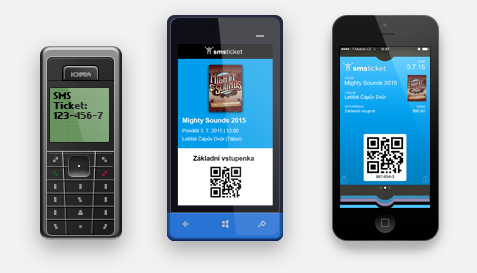
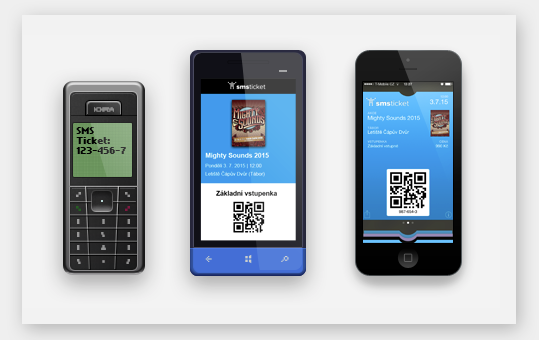
responsive container, hidden menu on resize, changed images

diff --git a/co-z-toho-mame.html b/co-z-toho-mame.html
@@ -100,12 +100,12 @@
             
                 <p class="para">Pro platby používáme moderní a spolehlivou platební bránu Pays.</p> 
                 <p class="para">Jako první ticketingovka v ČR nabízíme PayPal, který je v online platbách jednou z nejžádanějších forem převodu, tedy zase o trochu více pordaných vstupenek na Vaší akci!</p>
-                <img src="images/pays-paypal.png" alt="pays and paypall" class="img-responsive images-center">
+                <img src="images/pays-paypal2.png" alt="pays and paypall" class="img-responsive">
             </div>
             <div class="col-md-6 move">
-                <img src="images/plat-2.png" alt="platebni metody" class="img-responsive" width="330px">
+                <img src="images/plat-3.png" alt="platebni metody" class="img-responsive" width="330px">
             </div>
-            <div class="col-md-12 move">
+            <div class="col-md-12">
             <p class="para"><small>Unikátní je platba pomocí odeslání jediné SMS. V tomto případě uhradí návštěvník část vstupenky SMSkou (50,- nebo 99,-) a zbytek doplatí na místě akce. Obrovská výhoda této platební metody je jednoduchost a rychlost nákupu - nemusíte mít počítač, stačí napsat SMS dle návodu.</small></p>
             </div>
         </div>

diff --git a/jak-to-funguje.html b/jak-to-funguje.html
@@ -95,14 +95,14 @@
                 <p class="para">Návštěvníci jednoduše zaplatí on-line nebo SMSkou a obratem jim přijde vstupenka do mobilu i na email.</p>
                 <p class="para">Pohodlně nakoupí z počítače, tabletu i mobilu - design je tomu plně přizpůsoben</p><br>
             </div>
-            <div class="col-md-5">
+            <div class="col-md-5 move">
                 <h2>OBSLOUŽÍME ÚPLNĚ VŠECHNY!</h2>
                 <p class="para">Majitelé staré Nokie i nabušeného iPhone6. Vstupenky posílame formou SMS, emailem, PDF do tiskárny a Passbook pro iPhone</p>
             </div>   
             <div class="col-md-7">
                 <img src="images/mobiles.png" alt="mobile" class="img-responsive" width="380px">
             </div>
-            <div class="col-md-12">
+            <div class="col-md-12 move">
                 <h2>BEZPEČNÉ ODBAVENÍ VSTUPENEK</h2>
                 <p class="para">Vždy se jedná o unikátní číselný kód, který platí pro jednorázový vstup. Na vaší akci je pak snadno odbavíte pomocí mobilní aplikace nebo si vytisknete přehledný seznam prodaných vstupenek.</p><br>
             </div>

diff --git a/sledujte-prodej.html b/sledujte-prodej.html
@@ -94,7 +94,7 @@
             <p class="para">Mějte stále přehled o prodejích díky detailnímu vyúčtování. Sledujte podrobné vyúčtování z každé akce také měsíční reporty, vše v přehledných grafech a tabulkách.</p><br>
             </div>
             <div class="col-sm-6"> 
-                <img src="images/komp-2.png" alt="notebook" class="img-responsive" width="450px">
+                <img src="images/komp-3.png" alt="notebook" class="img-responsive" width="450px">
             </div>
             <div class="col-sm-6 move-padding-2">
                 <h2>ŠETŘÍME VÁŠ ČAS</h2>
@@ -106,7 +106,7 @@
                 <p class="para">Zažádejte si o peníze jediným kliknutím hned po skončení vaší akce. Peníze odesíláme obratem na váš účet.</p>
             </div>
             <div class="col-sm-6">
-                <img src="images/vyplata-prijem-2.png" alt="" class="img-responsive" width="400px">
+                <img src="images/vyplata-prijem-3.png" alt="" class="img-responsive" width="400px">
             </div>
             </div>
         </div>

diff --git a/propagujte-akce.html b/propagujte-akce.html
@@ -101,7 +101,7 @@
                 <img src="images/propojeni-s-fb.png" alt="" class="img-responsive" width="500px">     
             </div>
             <div class="clearfix"></div>
-            <div class="col-md-6">
+            <div class="col-md-6 move2">
                 <h2>PRODÁVEJTE PŘÍMO NA VAŠEM WEBU</h2>
                 <p class="para"><small>Máme několik variant prodejních boxů, které vám přizpůsobíme na míru. Ať už pořádáte desítky akcí, nebo jednu - máme pro vás řešení. Návštěvník ani nemusí opustit vaše webové stránky a může nakoupit lístky</small></p><br>
             </div>

diff --git a/css/style.css b/css/style.css
@@ -89,6 +89,12 @@ body {
   }
 }
 
+@media (max-width: 1099px) {
+  #menu {
+    visibility: hidden;
+  }
+}
+
 h1,h2,h3,p{
   font-weight: normal;
   font-family: proxima-nova, sans-serif;
@@ -130,10 +136,11 @@ h2 {
 }
 
 .container {
-    /*
-    padding-right: 20%;
+    
+    /*padding-right: 20%;
     padding-left: 20%;*/
     width: 700px;
+    max-width: 90%;
     margin-right: auto;
     margin-left: auto;
 }
